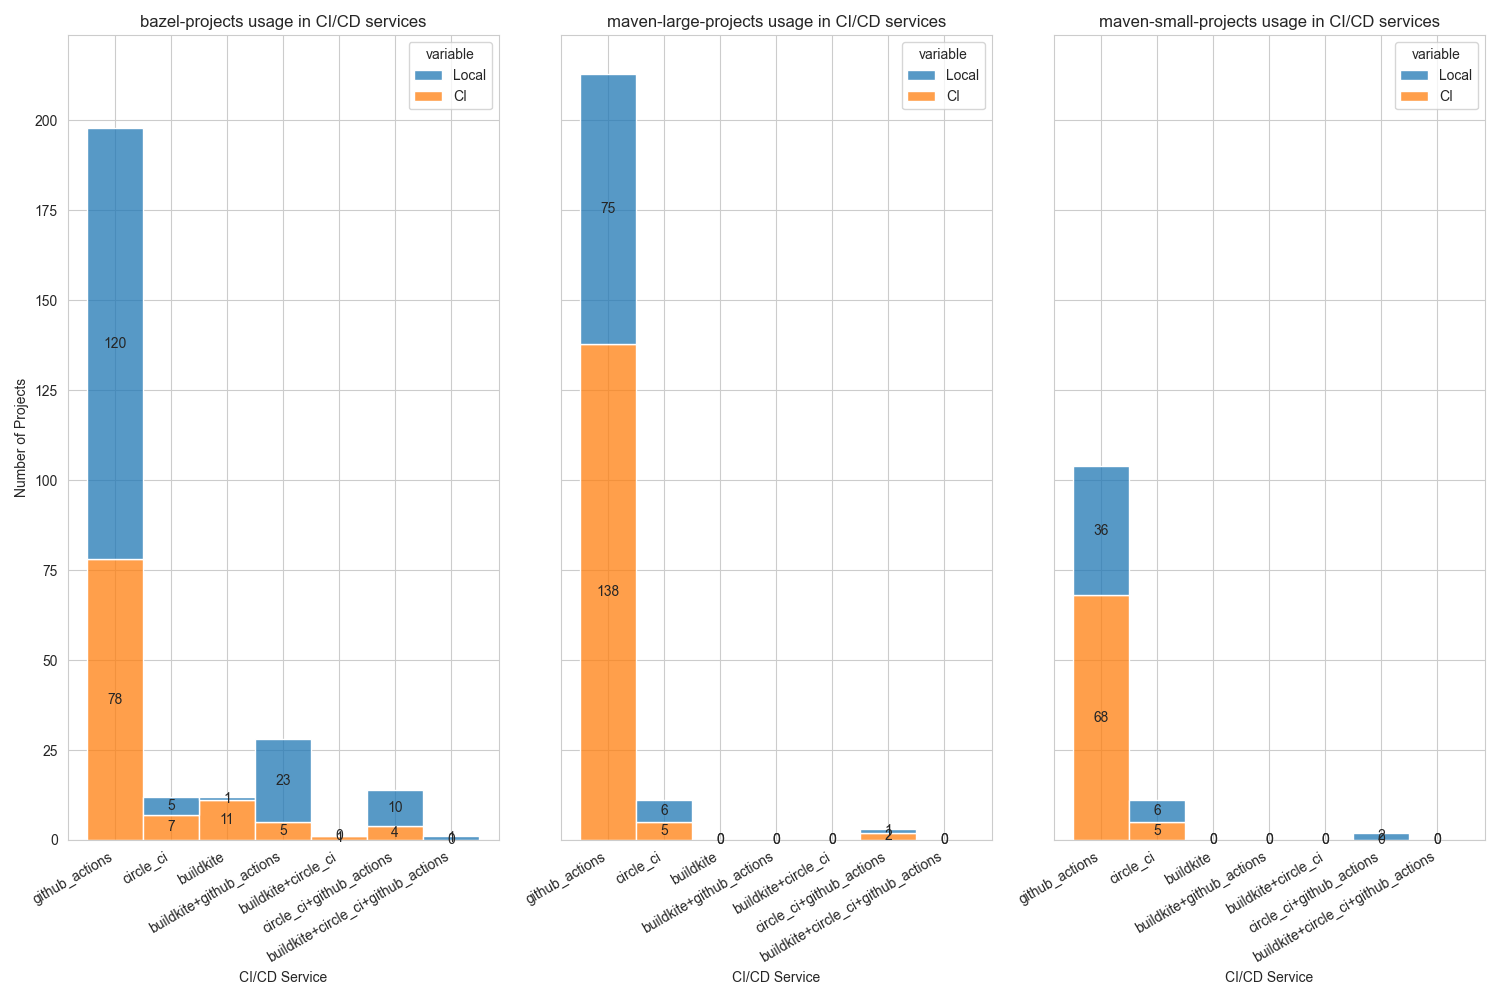
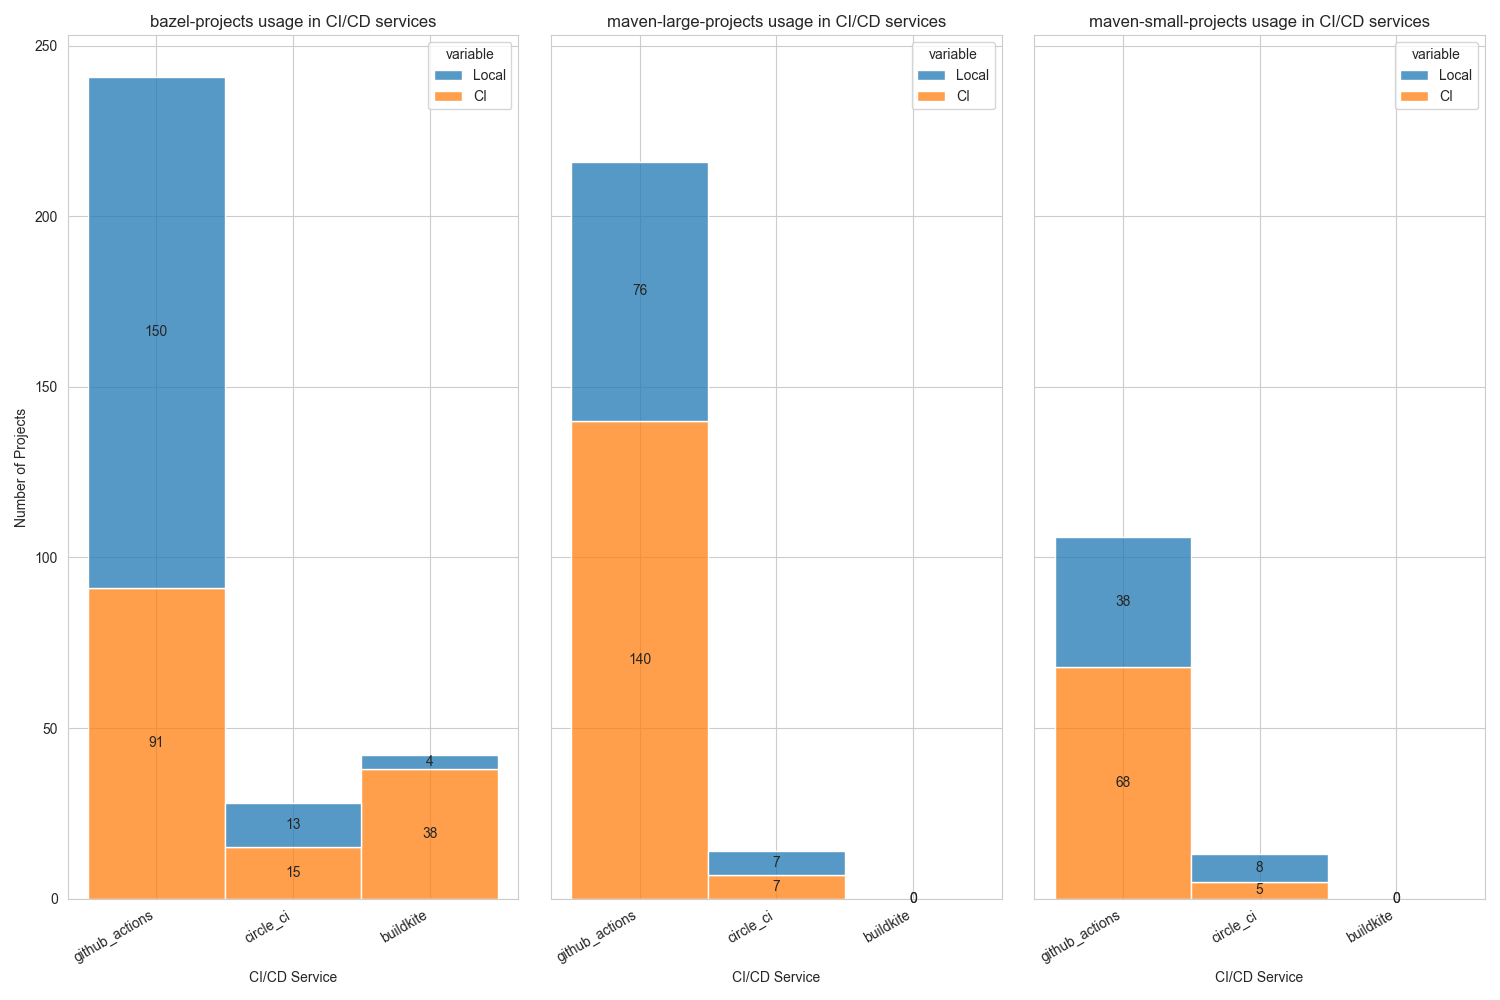
feat: generate subcommand usage graph

diff --git a/visualization/visualize.py b/visualization/visualize.py
@@ -10,42 +10,29 @@ def visualize_data(data_dir: str):
     sns.set_style("whitegrid")
 
     data_dir = os.path.join(data_dir, "processed")
-    visualize_ci_tools(data_dir)
-    visualize_parallelization_usage(data_dir)
-    visualize_cache_usage(data_dir)
-    visualize_test_usage(data_dir)
+    # visualize_ci_tools(data_dir)
+    # visualize_parallelization_usage(data_dir)
+    # visualize_cache_usage(data_dir)
+    visualize_subcommand_usage(data_dir)
 
 
 def visualize_ci_tools(data_dir: str):
     fig, axs = plt.subplots(ncols=3, nrows=1, figsize=(15, 10), tight_layout=True, sharey=True)
     parent_dir_names = {"bazel-projects": "bazel", "maven-large-projects": "maven", "maven-small-projects": "maven"}
     idx = 0
-    for parent_dir_name, correspondent_ci_tool in parent_dir_names.items():
+    for parent_dir_name, correspondent_build_tool in parent_dir_names.items():
         df = pd.read_csv(os.path.join(data_dir, f"{parent_dir_name}-build_tools.csv")).drop(
             columns=["subcommands"]).drop_duplicates()
 
-        build_tool_usage = pd.DataFrame({"Local": [0, 0, 0, 0, 0, 0, 0], "CI": [0, 0, 0, 0, 0, 0, 0],
-                                         "CI/CD Services": ["github_actions", "circle_ci", "buildkite",
-                                                            "buildkite+github_actions", "buildkite+circle_ci",
-                                                            "circle_ci+github_actions",
-                                                            "buildkite+circle_ci+github_actions"]})
+        build_tool_usage = pd.DataFrame({"Local": [0, 0, 0], "CI": [0, 0, 0],
+                                         "CI/CD Services": ["github_actions", "circle_ci", "buildkite"]})
 
         for project in df["project"].unique():
             ci_tools = sorted(df[df["project"] == project]["ci_tool"].unique())
-            all_true = True
-            some_true = False
             for ci_tool in ci_tools:
                 used_in_tool = df.query(f"project == '{project}' and ci_tool == '{ci_tool}'")["use_build_tool"].iloc[0]
-                all_true = all_true and used_in_tool
-                some_true = some_true or used_in_tool
-
-            if len(ci_tools) > 1:
-                # TODO a project may use Bazel in GitHub Actions but not in CirCleCI, currentl this is counted as local, we may need to change the strategy
                 build_tool_usage.loc[
-                    build_tool_usage["CI/CD Services"] == "+".join(ci_tools), "CI" if all_true else "Local"] += 1
-            else:
-                build_tool_usage.loc[
-                    build_tool_usage["CI/CD Services"] == ci_tools[0], "CI" if some_true else "Local"] += 1
+                    build_tool_usage["CI/CD Services"] == ci_tool, "CI" if used_in_tool else "Local"] += 1
 
         build_tool_usage = build_tool_usage.melt(id_vars="CI/CD Services")
         ax = sns.histplot(data=build_tool_usage, x="CI/CD Services", hue="variable", weights="value", discrete=True,
@@ -68,7 +55,7 @@ def visualize_parallelization_usage(data_dir: str):
 
     parent_dir_names = {"bazel-projects": "bazel", "maven-large-projects": "maven", "maven-small-projects": "maven"}
     idx = 0
-    for parent_dir_name, correspondent_ci_tool in parent_dir_names.items():
+    for parent_dir_name, correspondent_build_tool in parent_dir_names.items():
         parallelization_usage = {"Parallel": [], "Serial": [],
                                  "CI/CD Services": ["GitHub Actions", "CirCleCI", "Buildkite"]}
 
@@ -112,7 +99,7 @@ def visualize_cache_usage(data_dir: str):
 
     parent_dir_names = {"bazel-projects": "bazel", "maven-large-projects": "maven", "maven-small-projects": "maven"}
     idx = 0
-    for parent_dir_name, correspondent_ci_tool in parent_dir_names.items():
+    for parent_dir_name, correspondent_build_tool in parent_dir_names.items():
         cache_usage = {"Disk Cache": [], "Remote Cache": [], "No Cache": [],
                        "CI/CD Services": ["GitHub Actions", "CirCleCI", "Buildkite"]}
 
@@ -157,9 +144,23 @@ def visualize_cache_usage(data_dir: str):
     plt.show()
 
 
-def subcommand_filter(ci_tool, target_subcommand):
+# TODO we need to check the -Dmaven.test.skip=true flag or -DskipTests flag in the build commands!
+def test_subcommand_filter(build_tool, ci_tool):
+    test_goals = {"bazel": ["test"], "maven": ["test", "package", "verify", "install", "deplot"]}
+
+    return subcommand_filter(ci_tool, test_goals[build_tool])
+
+
+def build_subcommand_filter(build_tool, ci_tool):
+    # TODO for maven, is "compile" counted as build?
+    build_goals = {"bazel": ["build"], "maven": ["package", "verify", "install", "deploy"]}
+
+    return subcommand_filter(ci_tool, build_goals[build_tool])
+
+
+def subcommand_filter(ci_tool, target_subcommands):
     def filter_func(row):
-        if row["ci_tool"] == ci_tool and intersect(row["subcommands"].split(","), target_subcommand):
+        if row["ci_tool"] == ci_tool and intersect(row["subcommands"].split(","), target_subcommands):
             return True
         else:
             return False
@@ -167,56 +168,83 @@ def subcommand_filter(ci_tool, target_subcommand):
     return filter_func
 
 
-def visualize_test_usage(data_dir: str):
-    test_goals = ["test", "integration-test", "package", "verify", "install", "deploy"]
-
+def visualize_subcommand_usage(data_dir: str):
     figs, axs = plt.subplots(ncols=3, nrows=1, figsize=(15, 10), tight_layout=True, sharey=True)
 
     parent_dir_names = {"bazel-projects": "bazel", "maven-large-projects": "maven", "maven-small-projects": "maven"}
     idx = 0
-    for parent_dir_name, correspondent_ci_tool in parent_dir_names.items():
-        test_usage = {"Execute Tests": [], "Not Execute Tests": [],
-                      "CI/CD Services": ["GitHub Actions", "CirCleCI", "Buildkite"]}
+    for parent_dir_name, correspondent_build_tool in parent_dir_names.items():
+        subcommand_usage = {"Test Only": [], "Build Only": [], "Both Test and Build": [], "Others": [], "CI/CD Services": ["GitHub Actions", "CirCleCI", "Buildkite"] }
 
         df = pd.read_csv(os.path.join(data_dir, f"{parent_dir_name}-build_tools.csv"))
         df = df.loc[df["use_build_tool"]]
 
-        gha_test = df.loc[df.apply(subcommand_filter("github_actions", test_goals), axis=1)]
+        test_only = df.loc[df.apply(test_subcommand_filter(correspondent_build_tool, "github_actions"), axis=1)]
+        build_only = df.loc[df.apply(build_subcommand_filter(correspondent_build_tool, "github_actions"), axis=1)]
+        both_test_and_build = pd.merge(test_only, build_only, how="inner", on=["project", "ci_tool"])
+        test_only = test_only.loc[~test_only["project"].isin(both_test_and_build["project"])]
+        build_only = build_only.loc[~build_only["project"].isin(both_test_and_build["project"])]
+
         total_gha_projects = len(df.loc[df["ci_tool"] == "github_actions"]["project"].unique())
-        gha_test_projects = len(gha_test["project"].unique())
+        gha_test_only_projects = len(test_only.loc[test_only["ci_tool"] == "github_actions"]["project"].unique())
+        gha_build_only_projects = len(build_only.loc[build_only["ci_tool"] == "github_actions"]["project"].unique())
+        gha_both_test_and_build_projects = len(both_test_and_build.loc[both_test_and_build["ci_tool"] == "github_actions"]["project"].unique())
+        gha_other_projects = total_gha_projects - gha_test_only_projects - gha_build_only_projects - gha_both_test_and_build_projects
 
-        test_usage["Execute Tests"].append(gha_test_projects)
-        test_usage["Not Execute Tests"].append(total_gha_projects - gha_test_projects)
+        subcommand_usage["Test Only"].append(gha_test_only_projects)
+        subcommand_usage["Build Only"].append(gha_build_only_projects)
+        subcommand_usage["Both Test and Build"].append(gha_both_test_and_build_projects)
+        subcommand_usage["Others"].append(gha_other_projects)
 
-        circleci_test = df.loc[df.apply(subcommand_filter("circle_ci", test_goals), axis=1)]
+        test_only = df.loc[df.apply(test_subcommand_filter(correspondent_build_tool, "circle_ci"), axis=1)]
+        build_only = df.loc[df.apply(build_subcommand_filter(correspondent_build_tool, "circle_ci"), axis=1)]
+        both_test_and_build = pd.merge(test_only, build_only, how="inner", on=["project", "ci_tool"])
+        test_only = test_only.loc[~test_only["project"].isin(both_test_and_build["project"])]
+        build_only = build_only.loc[~build_only["project"].isin(both_test_and_build["project"])]
+
         total_circleci_projects = len(df.loc[df["ci_tool"] == "circle_ci"]["project"].unique())
-        circleci_test_projects = len(circleci_test["project"].unique())
+        circleci_test_only_projects = len(test_only.loc[test_only["ci_tool"] == "circle_ci"]["project"].unique())
+        circleci_build_only_projects = len(build_only.loc[build_only["ci_tool"] == "circle_ci"]["project"].unique())
+        circleci_both_test_and_build_projects = len(both_test_and_build.loc[both_test_and_build["ci_tool"] == "circle_ci"]["project"].unique())
+        circleci_other_projects = total_circleci_projects - circleci_test_only_projects - circleci_build_only_projects - circleci_both_test_and_build_projects
 
-        test_usage["Execute Tests"].append(circleci_test_projects)
-        test_usage["Not Execute Tests"].append(total_circleci_projects - circleci_test_projects)
+        subcommand_usage["Test Only"].append(circleci_test_only_projects)
+        subcommand_usage["Build Only"].append(circleci_build_only_projects)
+        subcommand_usage["Both Test and Build"].append(circleci_both_test_and_build_projects)
+        subcommand_usage["Others"].append(circleci_other_projects)
 
-        buildkite_test = df.loc[df.apply(subcommand_filter("buildkite", test_goals), axis=1)]
+        test_only = df.loc[df.apply(test_subcommand_filter(correspondent_build_tool, "buildkite"), axis=1)]
+        build_only = df.loc[df.apply(build_subcommand_filter(correspondent_build_tool, "buildkite"), axis=1)]
+        both_test_and_build = pd.merge(test_only, build_only, how="inner", on=["project", "ci_tool"])
+        test_only = test_only.loc[~test_only["project"].isin(both_test_and_build["project"])]
+        build_only = build_only.loc[~build_only["project"].isin(both_test_and_build["project"])]
+
         total_buildkite_projects = len(df.loc[df["ci_tool"] == "buildkite"]["project"].unique())
-        buildkite_test_projects = len(buildkite_test["project"].unique())
+        buildkite_test_only_projects = len(test_only.loc[test_only["ci_tool"] == "buildkite"]["project"].unique())
+        buildkite_build_only_projects = len(build_only.loc[build_only["ci_tool"] == "buildkite"]["project"].unique())
+        buildkite_both_test_and_build_projects = len(both_test_and_build.loc[both_test_and_build["ci_tool"] == "buildkite"]["project"].unique())
+        buildkite_other_projects = total_buildkite_projects - buildkite_test_only_projects - buildkite_build_only_projects - buildkite_both_test_and_build_projects
 
-        test_usage["Execute Tests"].append(buildkite_test_projects)
-        test_usage["Not Execute Tests"].append(total_buildkite_projects - buildkite_test_projects)
+        subcommand_usage["Test Only"].append(buildkite_test_only_projects)
+        subcommand_usage["Build Only"].append(buildkite_build_only_projects)
+        subcommand_usage["Both Test and Build"].append(buildkite_both_test_and_build_projects)
+        subcommand_usage["Others"].append(buildkite_other_projects)
 
-        test_usage = pd.DataFrame(test_usage)
-        test_usage = test_usage.melt(id_vars="CI/CD Services")
-        ax = sns.histplot(data=test_usage, x="CI/CD Services", hue="variable", weights="value", discrete=True,
-                          hue_order=["Not Execute Tests", "Execute Tests"], multiple="stack", ax=axs[idx])
+        subcommand_usage = pd.DataFrame(subcommand_usage)
+        subcommand_usage = subcommand_usage.melt(id_vars="CI/CD Services")
+        ax = sns.histplot(data=subcommand_usage, x="CI/CD Services", hue="variable", weights="value", discrete=True,
+                          multiple="stack", ax=axs[idx])
         idx += 1
 
         for c in ax.containers:
             ax.bar_label(c, label_type='center')
 
-        ax.set_title(f"{parent_dir_name} test usage in CI/CD services")
+        ax.set_title(f"{parent_dir_name} usage in CI/CD services")
         ax.set_xlabel("CI/CD Service")
         ax.set_ylabel("Number of Projects")
 
     figs.autofmt_xdate()
-    plt.savefig("./images/test_usage")
+    plt.savefig("./images/command_usage")
     plt.show()
 
 

diff --git a/main.py b/main.py
@@ -12,6 +12,6 @@ if __name__ == '__main__':
         datefmt='%m/%d/%Y %I:%M:%S %p')
     # projects = project.retrieve_projects()
 
-    analysis.analyze.analyze("./repos")
+    # analysis.analyze.analyze("./repos")
     # preprocess_data("./data")
-    # visualize_data("./data")
+    visualize_data("./data")
